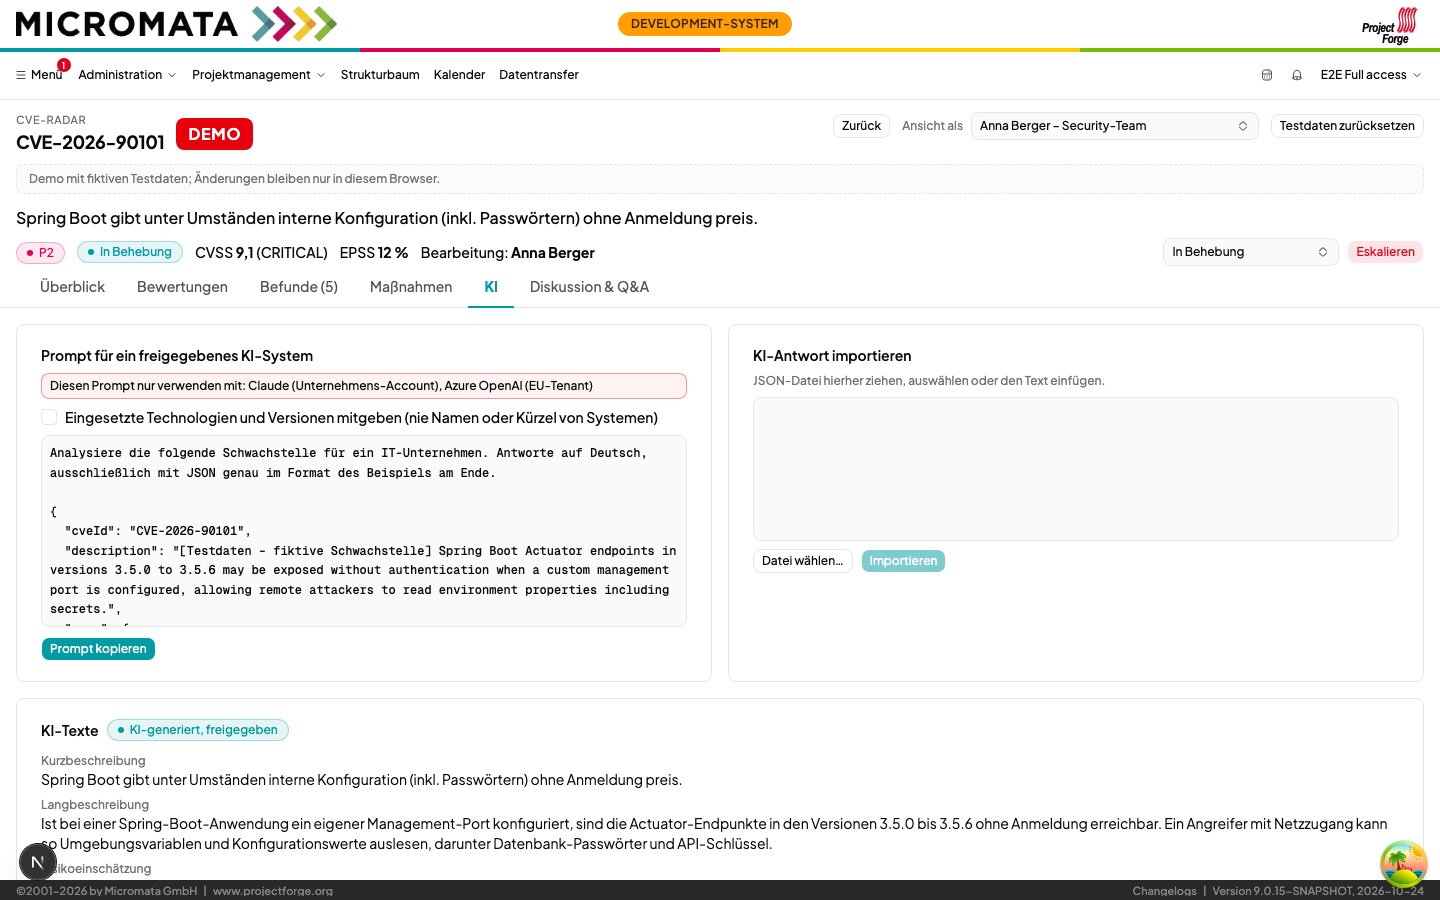
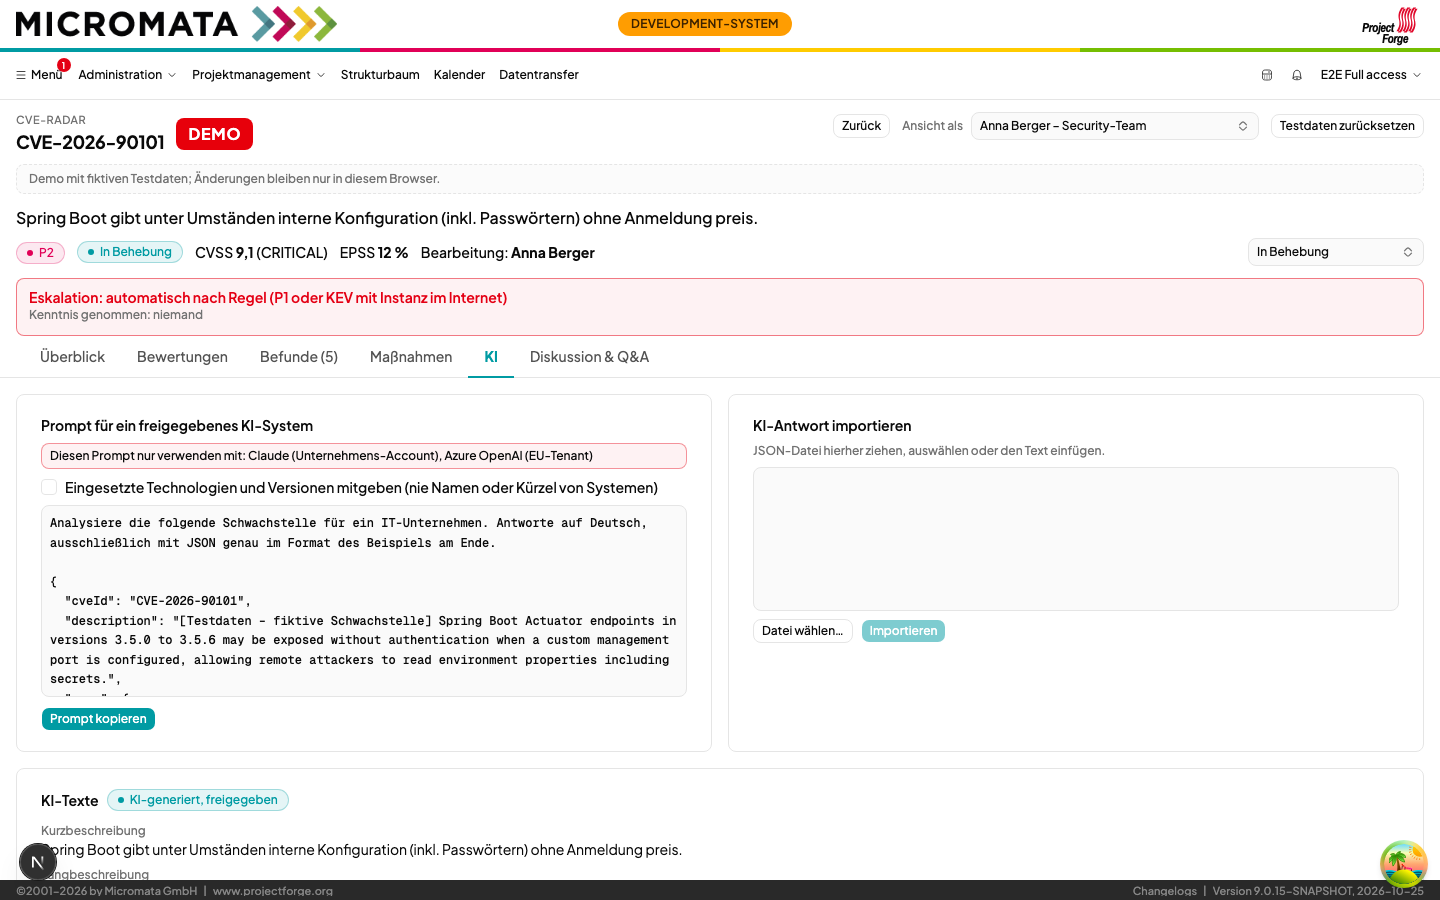
docs(cve-radar): consistent rules for escalation, priority, reopening and channels (PF-CVR 0.9)
- TRI-03/07: the assignee or the SO sets the binding priority; setting it on an unassigned CVE assigns the acting person
- MAT-13: a closed finding is reopened when its version changes and is still affected
- VIS-02: involved ST members of a confidential system see the system with all its findings
- FB-03: a team's "risk accepted" is a request until approved per MAT-05
- release cut: ESC with the notifications it needs in R1, check requests with FB in R2
- screenshots retaken with the current prototype

diff --git a/doc/requirements/PF-CVR_CVE-Radar_Vulnerability_Management.md b/doc/requirements/PF-CVR_CVE-Radar_Vulnerability_Management.md
@@ -125,11 +125,11 @@ Priority by MoSCoW: **M** = Must, **S** = Should, **C** = Could, **W** = Won't (
 |---|---|---|---|
 | TRI-01 | The system must show an inbox ("To triage") of all new or modified vulnerabilities with findings or open check requests (MAT-11), sorted by suggested priority and age. | M | |
 | TRI-02 | Every ST member must be able to take over a vulnerability ("I'm on it") or assign it to another ST member; the assignee is visible in all lists. | M | |
-| TRI-03 | Several ST members must be able to rate a vulnerability: per rating priority, exploitability in the own environment, reason; ratings are shown side by side, the assignee sets the binding priority (deviations are highlighted). | M | |
+| TRI-03 | Several ST members must be able to rate a vulnerability: per rating priority, exploitability in the own environment, reason; ratings are shown side by side, the assignee or the SO sets the binding priority (deviations are highlighted); setting it on an unassigned vulnerability makes the acting person its assignee. | M | |
 | TRI-04 | The documentation of a vulnerability (analysis, measures, decisions) must be editable by several people at the same time without losing changes (conflict detection on save). | M | |
 | TRI-05 | Every vulnerability must have a processing status: New → In triage → Rated → In remediation → Closed (or Not relevant). | M | |
 | TRI-06 | Triage deadlines must exist per suggested priority (e.g. P1: 4 h, P2: 1 working day); vulnerabilities not triaged in time are reported to the ST/SO. | M | |
-| TRI-07 | Mass actions must be possible: assign several vulnerabilities, close as "not relevant", set priority (with reason). | M | volume |
+| TRI-07 | Mass actions must be possible: assign several vulnerabilities, close as "not relevant" (with reason), set the binding priority (with reason, by the persons of TRI-03). | M | volume |
 | TRI-08 | Similar or related vulnerabilities (same component, same advisory) should be bundled and processed together. | S | |
 | TRI-09 | Work templates (checklists per vulnerability type/CWE) could be stored and copied into the documentation. | C | |
 | TRI-10 | Besides the inbox, the system must offer a list of all imported vulnerabilities, sortable and filterable by every column, with the triage status and per vulnerability the number of its visible findings by status (open, in progress, done); a filter restricts it to vulnerabilities with findings. | M | central overview |
@@ -224,6 +224,7 @@ once (`MAIL`, implicit default instance).
 | MAT-10 | Findings of the same vulnerability in several instances of a system should be shown and processable together as one row with the list of instances. | S | volume |
 | MAT-11 | A vulnerability in a library of an ecosystem (OSV ecosystem, or NVD CPE of a library) must create a check request, not a finding, for every component that has this ecosystem but no SBOM or lockfile (INV-23), if it exceeds a stricter configurable threshold (default: CVSS ≥ 9, KEV-listed or EPSS ≥ 30 %). The request is made once per component of the baseline, for all instances inheriting it, and separately for components of an instance's own. The responsible group answers per component: "not used" (no new request for this library until the next SBOM or lockfile of the component, at most for a configurable time, default 180 days), "used, version x" (adds the technology, regular matching follows), "unclear" (finding "possibly affected", MAT-03). The answer is given like team feedback (FB-03); requests and answers are visible according to VIS-02 like the findings of the component. | M | matching every library CVE against every Java/Node component would produce dozens of false findings per week |
 | MAT-12 | Derived technologies (INV-25) and build-file entries without transitive dependencies (INV-27) should create findings only as "possibly affected". | S | |
+| MAT-13 | A closed finding (Fixed, Mitigated, Not affected, Risk accepted) whose technology version changes afterwards and is still affected must be reopened as New; the earlier status stays in the history. | M | e.g. a rollback |
 
 ### 5.8 PF-CVR-ACT – Measures and distribution
 
@@ -243,7 +244,7 @@ finding status per instance.
 |---|---|---|---|
 | FB-01 | The ST must be able to start a feedback campaign for a vulnerability with target audience, deadline (default from priority) and flag "mandatory". | M | |
 | FB-02 | Target "teams": the system must automatically suggest the responsible groups (INV-07) of all instances whose effective technology list contains the affected technology (also "possibly affected"); groups can be added manually. The feedback shows area, system and the affected components per instance. | M | |
-| FB-03 | Team feedback is given per instance with the answers: "Not affected" (reason), "Affected – fixed" (date, version), "Affected – in progress" (planned date), "Risk accepted" (reason). The answer sets the finding status. | M | |
+| FB-03 | Team feedback is given per instance with the answers: "Not affected" (reason), "Affected – fixed" (date, version), "Affected – in progress" (planned date), "Risk accepted" (reason). The answer sets the finding status; "Risk accepted" is a request, the finding stays "In review" until it is approved per MAT-05. | M | |
 | FB-04 | A team's feedback is complete as soon as a group member has answered for every instance. | M | |
 | FB-05 | Target "clients": every addressed employee confirms individually ("done" / "not affected" / "question/problem"). | M | |
 | FB-06 | For mandatory campaigns the open feedback must appear as a persistent hint (banner/menu badge) until answered. | M | `NotificationDO` BANNER |
@@ -300,7 +301,7 @@ affected is visible only to those who need to know the system. "System X is vuln
 | ID | Requirement | Prio | Remark |
 |---|---|---|---|
 | VIS-01 | Every system must carry a confidentiality level: **Internal** (default), **Confidential**, **Strictly confidential**. Instances and components inherit it; an instance may only raise it (INV-07). | M | |
-| VIS-02 | Visibility of a system, its instances, components and findings per effective level: **Internal** – responsible group, ST, SO, MG. **Confidential** – responsible group, SO, MG and the ST members working on or assigned to an affecting vulnerability. **Strictly confidential** – responsible group, SO and persons/groups explicitly granted per system; MG only within an escalation. | M | need-to-know |
+| VIS-02 | Visibility of a system, its instances, components and findings per effective level: **Internal** – responsible group, ST, SO, MG. **Confidential** – responsible group, SO, MG and the ST members working on or assigned to a vulnerability affecting the system; they see the system with all its findings, not only those of that vulnerability. **Strictly confidential** – responsible group, SO and persons/groups explicitly granted per system; MG only within an escalation. | M | need-to-know |
 | VIS-03 | Grants for "Strictly confidential" are given by the responsible group or the SO, optionally time-limited; granting and revoking are historised. | M | |
 | VIS-04 | Whoever may not see an affected system sees only the count for the vulnerability ("+3 more affected systems, not visible") – neither area, code, name, group, instance nor components. | M | |
 | VIS-05 | The PF administrator role alone grants no access to CVE-Radar content; PF system administrators get access only via membership in the CVE-Radar groups (ST, SO, CA). The CA sees the master data (code, name, group, level) of all areas, systems and instances, the components and findings of strictly confidential systems only with a grant (VIS-03). | M | separation operation/content |
@@ -372,7 +373,7 @@ To be built: Q&A, inventory hierarchy with baseline/deviations, CPE/purl matchin
 | 12 | Visibility | Need-to-know per system via three confidentiality levels; without right only counts | 5.14 |
 | 13 | Administration | Group CVE-Radar admin; PF admins only via CVE-Radar groups; every access logged (changes via `DefaultBaseDO` history, reads via new access log) | VIS-05, VIS-13, VIS-14 |
 | 14 | Hierarchy | Area → system → instance → component; site/stage as attributes; single-instance systems without visible instance level; no customer level, convention `<customer>-<area>`; the system may override the area's group | INV-01 – INV-07 |
-| 15 | Components | Baseline on the system, deviations per instance; findings per vulnerability × component × instance; a baseline fix sets inheriting instances to "Fix planned" only, "Fixed" is confirmed per instance (mass action) | INV-08 – INV-12, MAT-02, MAT-09 |
+| 15 | Components | Baseline on the system, deviations per instance; findings per vulnerability × component × instance; a baseline fix sets inheriting instances to "Fix planned" only, "Fixed" is confirmed per instance (mass action); a closed finding is reopened when its version changes and is still affected | INV-08 – INV-12, MAT-02, MAT-09, MAT-13 |
 | 16 | Discussion | Generic chat module PF-CHAT (threads per message, rich text, images via data transfer storage); CVE-Radar is its first host | DISC-01 – DISC-06 |
 | 17 | Umbrella technologies | Libraries come from SBOMs (CI) or lockfiles; build files are never executed; with an ecosystem entry only, library CVEs above a stricter threshold create check requests, not findings | INV-23 – INV-27, MAT-11, MAT-12 |
 
@@ -387,7 +388,7 @@ To be built: Q&A, inventory hierarchy with baseline/deviations, CPE/purl matchin
 ## 9. Next steps
 
 1. Review of this version 0.9 together with [PF-CHAT](PF-CHAT_Chat_Discussion.md) 0.2.
-2. Release cut (proposal: R1 = IMP, PRIO, TRI, ESC, INV, MATCH, VIS, AI; R2 = FB, NOT, ACT; R3 = DISC, QA, RPT; DISC requires PF-CHAT R1).
+2. Release cut (proposal: R1 = IMP, PRIO, TRI, ESC with the notifications it needs (in-app banner, mail, acknowledgement: NOT-03), INV, MATCH without MAT-11, VIS, AI; R2 = FB, MAT-11, NOT, ACT; R3 = DISC, QA, RPT; DISC requires PF-CHAT R1).
 
 **Verification of the specification:** every Must requirement is phrased actively and testable by an acceptance
 test; review with SO, security team, a system team and a non-techie employee (understandability of the client
